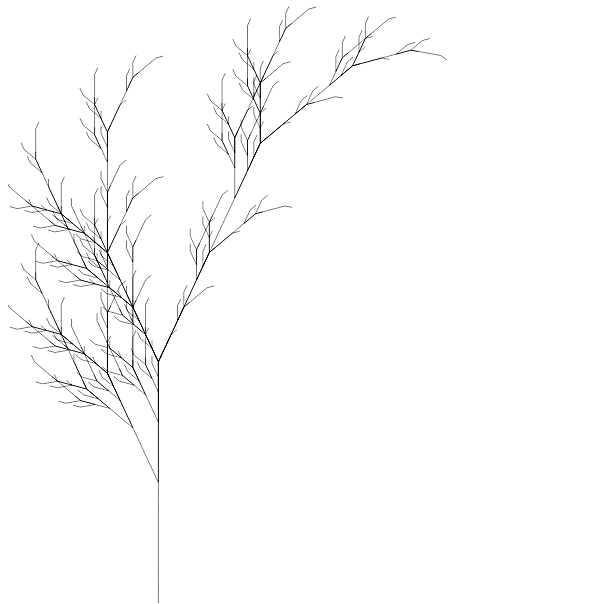
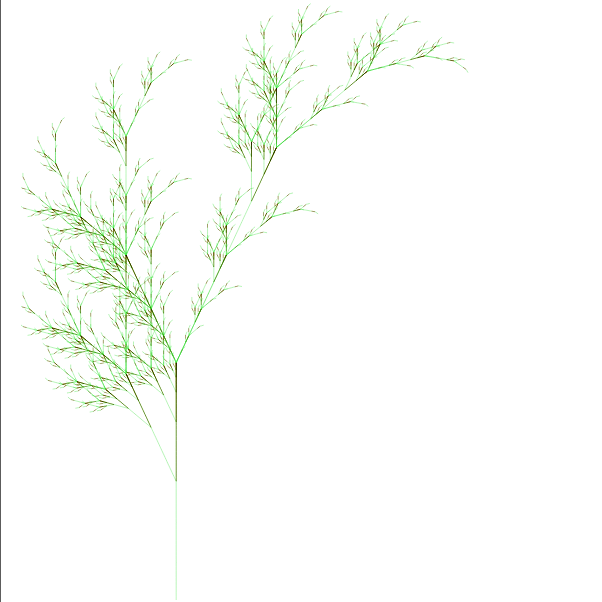
accumulated fixes for issues

Changed region(s): [[0.0, 0.0299, 0.7774, 0.9867], [0.5083, 0.0, 0.5681, 0.0299]]

diff --git a/index.html b/index.html
@@ -17,17 +17,18 @@
         <form id="system-form" action="index.html" method="post">
 
           <span><label class="form-label">Axiom</label><input value="-f" name= "axiom" class="form-input" id="axiom" type="text" required></span>
-          <span><label class="form-label">Rule 1</label><input value="F=F+F-AF-F+F" name= "r1" id="r1" class="form-input" type="text" required></span>
+          <span><label class="form-label">Rule 1</label><input value="F=F+F-F-F+F" name= "r1" id="r1" class="form-input" type="text" required></span>
           <span><label class="form-label">Rule 2</label><input name= "r2" id="r2" class="form-input" type="text" ></span>
           <span><label class="form-label">Rule 3</label><input name= "r3" id="r3" class="form-input" type="text" ></span>
           <span><label class="form-label" >Angle</label><input value=90 name= "angle" id="angle" class="form-input" type="number" required></span>
           <span><label class="form-label">Iterations</label><input value=4 name= "iterations" class="form-input" id="iterations" type="number" required></span>
+          <span><label class="form-label">Delay</label><input value=0 name= "delay" class="form-input" id="delay" type="number" required></span>
           <button type="submit">Generate your L-System</button>
         </form>
-        <p>Use the inputs above to design your L-curve!  Click on the name to change it.  <b>Warning:</b> high iteration counts get intensive quick.  L systems grow fast!  Scale carefully, you will likely find that most won't even approach 10 iterations before bogging down.</p>
+        <p>Use the inputs above to design your L-curve!  Use the delay to delay the drawing of each segment by milliseconds.  Click on the name to change it.  <b>Warning:</b> high iteration counts get intensive quick.  L systems grow fast!  Scale iteration count carefully.</p>
         <table>
           <tr>
-            <td>S,D,F,G</td><td>Move turtle forward</td>
+            <td>A,S,D,F,G</td><td>Move turtle forward</td>
           </tr>
           <tr>
             <td>+</td><td>Turn turtle to the right</td>
@@ -40,6 +41,9 @@
           </tr>
           <tr>
             <td>]</td><td>Return to saved location</td>
+          </tr>
+          <tr>
+            <td>0,1,2,3</td><td>Color line black, brown, green, red, respectively.</td>
           </tr>
         </table>
       </div>
@@ -54,11 +58,27 @@
       <p>If you find this interesting, checkout <a href="http://algorithmicbotany.org/papers/abop/abop-ch1.pdf">The Algorithmic Beauty of Plants (chapter one)</a>, a book on computational botany that has lots of examples of L systems and far more rigorous explanations.</p>
       <div class="row" id="examples">
         <div class="example-box"><input class="example-button" type="image" value='?axiom~f-g-g&r1~f=f-g+f+g-f&r2~g=gg&r3~&angle~120&iterations~4&system-name~Sierpinski%20Triangle%20(Recursive%20Triforce)' onClick="gotoAddress(this)" src="./img/sierpinski.png"></input><p>Sierpinski Triangle</p></div>
-        <div class="example-box"><input class="example-button" type="image" value='?axiom~x&r1~x=f[-x][x]f[-x]+fx&r2~f=ff&r3~&angle~25&iterations~5&system-name~Fractal%20Plant' onClick="gotoAddress(this)" src="./img/fractalPlant.png"></input><p>Fractal Plant</p></div>
+        <div class="example-box"><input class="example-button" type="image" value='?axiom~x&r1~x=2f-[3[x]+2x]+1f[2+fx]-x&r2~f=ff&r3~&angle~25&iterations~6&system-name~Fractal%20Plant' onClick="gotoAddress(this)" src="./img/fractalPlant.png"></input><p>Fractal Plant</p></div>
         <div class="example-box"><input class="example-button" type="image" value='?axiom~fx&r1~x=x+yf+&r2~y=-fx-y&r3~&angle~90&iterations~10&system-name~Dragon%20Curve' onClick="gotoAddress(this)" src="./img/dragon.png"></input><p>Dragon Curve</p></div>
         <div class="example-box"><input class="example-button" type="image" value='?axiom~xyxyxyx+xyxyxyx+xyxyxyx+xyxyxyx&r1~f=&r2~x=fx+fx+fxfy-fy-&r3~y=+fx+fxfy-fy-fy&angle~90&iterations~3&system-name~Fractal%20Maze%20Thing' onClick="gotoAddress(this)" src="./img/fractalMaze.png"></input><p>Fractal Maze</p></div>
         <div class="example-box"><input class="example-button" type="image" value='?axiom~f&r1~f=+g-f-g+&r2~g=-f+g+f-&r3~&angle~60&iterations~7&system-name~Arrowhead%20Curve%20Sierpinski%20Triangle' onClick="gotoAddress(this)" src="./img/sierpinskiArrowhead.png"></input><p>Arrowhead Sierpinski Curve</p></div>
         <div class="example-box"><input class="example-button" type="image" value='?axiom~f&r1~g=gg&r2~f=g[-f]+f&r3~&angle~45&iterations~8&system-name~Fractal%20Tree%20(Broccoli%20Simulator)' onClick="gotoAddress(this)" src="./img/fractalTree.png"></input><p>Fractal Tree</p></div>
+        <div class="example-box"><input class="example-button" type="image" value='?axiom~f-f-f-f&r1~f=3ff-2f--1ff-3f&r2~&r3~&angle~90&iterations~4&system-name~Geometric%20Snowflake' onClick="gotoAddress(this)" src="./img/redSnowflake.png"></input><p>Red Snowflake</p></div>
+        <div class="example-box"><input class="example-button" type="image" value='?axiom~x&r1~x=x+yf++yf-fx--fxfx-yf+&r2~y=-fx+yfyf++yf+fx--fx-y&r3~&angle~60&iterations~4&system-name~Peano-Gosper%20curve' onClick="gotoAddress(this)" src="./img/peanoGosper.png"></input><p>Peano-Gosper Curve</p></div>
+        <div class="example-box"><input class="example-button" type="image" value='?axiom~g&r1~g=+dfff-gfffg-fffd+&r2~d=-gfff+dfffd+fffg-&r3~&angle~90&iterations~5&system-name~Hilbert%20Curve' onClick="gotoAddress(this)" src="./img/hilbert.png"></input><p>Hilbert Curve</p></div>
+        <div class="example-box"><input class="example-button" type="image" value='?axiom~b--g--b--g&r1~b=+d-f-d+&r2~d=-b+f+b-&r3~&angle~45&iterations~6&system-name~Fractal%20Snowflake' onClick="gotoAddress(this)" src="./img/fractalSnowflake.png"></input><p>Fractal Snowflake</p></div>
+        <div class="example-box"><input class="example-button" type="image" value='?axiom~x&r1~x=xfyfx+f+yfxfy-f-xfyfx&r2~y=yfxfy-f-xfyfx+f+yfxfy&r3~&angle~90&iterations~3&system-name~Hilbert%20Curve%202' onClick="gotoAddress(this)" src="./img/hilbert2.png"></input><p>Hilbert Curve 2</p></div>
+        <div class="example-box"><input class="example-button" type="image" value='?axiom~f+f+f+f&r1~f=-f+f-f-f+f+ff-f+f+ff+f-f-ff+ff-ff+f+f-ff-f-f+ff-f-f+f+f-f+&r2~&r3~&angle~90&iterations~2&system-name~32%20Element%20Curve' onClick="gotoAddress(this)" src="./img/32Element.png"></input><p>32 Element Curve</p></div>
+        <div class="example-box"><input class="example-button" type="image" value='?axiom~3f+0f+3f+0f&r1~f=ff+f-f+f+ff&r2~&r3~&angle~90&iterations~4&system-name~Square%20Curve%20Interference' onClick="gotoAddress(this)" src="./img/squareInterference.png"></input><p>Square Curve Interference</p></div>
+        <div class="example-box"><input class="example-button" type="image" value='?axiom~+f--f--f&r1~f=f+f--f+f&r2~&r3~&angle~60&iterations~4&system-name~Koch%20Snowflake' onClick="gotoAddress(this)" src="./img/kochSnowflake.png"></input><p>Koch Snowflake</p></div>
+        <div class="example-box"><input class="example-button" type="image" value='?axiom~++f&r1~f=ff-1[sd]+1[sd]&r2~s=+2fd&r3~d=-2fs&angle~20&iterations~6&system-name~Stringy%20Plant' onClick="gotoAddress(this)" src="./img/stringyPlant.png"></input><p>Stringy Plant</p></div>
+        <div class="example-box"><input class="example-button" type="image" value='?axiom~fx&r1~f=bff-[c1-f+f]+[2+f-f]&r2~x=bff+[1+f]+[3-f]&r3~&angle~25&iterations~5&system-name~Bushy%20Plant' onClick="gotoAddress(this)" src="./img/bushyPlant.png"></input><p>Bushy Plant</p></div>
+        <div class="example-box"><input class="example-button" type="image" value='?axiom~f&r1~f=1ff-[1-f+f+f]+[2+f-f-f]&r2~&r3~&angle~23&iterations~5&system-name~Bushy%20Plant%202' onClick="gotoAddress(this)" src="./img/bushyPlant2.png"></input><p>Bushy Plant 2</p></div>
+        <div class="example-box"><input class="example-button" type="image" value='?axiom~1f&r1~f=f[+f[+f][-f]f][-f[2+f][-f]f]f[2+f][-f]f&r2~&r3~&angle~30&iterations~4&system-name~Fractal%20Plant%202' onClick="gotoAddress(this)" src="./img/fractalPlant2.png"></input><p>Fractal Plant 2</p></div>
+        <div class="example-box"><input class="example-button" type="image" value='?axiom~x&r1~x=1f[+x]2[-x]2fx&r2~f=ff&r3~&angle~25&iterations~9&system-name~Pretty%20Tree' onClick="gotoAddress(this)" src="./img/prettyTree.png"></input><p>Pretty Tree</p></div>
+        <div class="example-box"><input class="example-button" type="image" value='?axiom~f-f-f-f&r1~f=ff-f-f-f-f-f+f&r2~&r3~&angle~90&iterations~4&system-name~Another%20Fractal' onClick="gotoAddress(this)" src="./img/anotherFractal.png"></input><p>anotherFractal</p></div>
+        <div class="example-box"><input class="example-button" type="image" value='?axiom~f-f-f-f&r1~f=ff-f--f-f&r2~&r3~&angle~90&iterations~4&system-name~Square%20Division' onClick="gotoAddress(this)" src="./img/squareDivision.png"></input><p>Divided Square</p></div>
+
 
       </div>
     </div>
@@ -69,6 +89,12 @@
   integrity="sha256-k2WSCIexGzOj3Euiig+TlR8gA0EmPjuc79OEeY5L45g="
   crossorigin="anonymous"></script>
   <script src="app.js" charset="utf-8"></script>
+  <footer>
+
+
+      <span><a rel="license" href="http://creativecommons.org/licenses/by/4.0/"><img alt="Creative Commons License" style="border-width:0" src="https://i.creativecommons.org/l/by/4.0/80x15.png" /></a> Zach Williams</span>
+      <a href="https://github.com/saumanahaii/l-curve-visualizer">Get the source</a>
+  </footer>
   </body>
 
 

diff --git a/app.js b/app.js
@@ -1,4 +1,10 @@
 /**
+Code written by Zachary Williams.
+Its been acting pretty sad lately, so feel free to give it a good home.
+In other words, this is
+*/
+
+/**
 Basic grammar:
   "F": move forward
   "+" rotate right
@@ -37,7 +43,8 @@ let system = {
   r2: null,
   angle: null,
   rules: [],
-  dimensions: {x: 600, y:600}
+  dimensions: {x: 600, y:600},
+  delay: 0
 }
 
 d3.select("#svg-container").append("svg:svg").attr("width", system.dimensions.x).attr("height", system.dimensions.y).attr("id", "svg").attr("transform","rotate(-90)");
@@ -51,13 +58,15 @@ class LSystem{
     this.res = system.axiom;
     this.lines = [];
     this.dir = 0;
-    this.activeColor = "black";
+    this.activeColor = "rgba(0,0,0,0.3)";
     this.length = 20;
     this.head = {x:0,y:0}
     this.locationStack = [];
     this.rules = system.rules;
+    this.delay = system.delay;
     this.xDim = {min:this.head.x,max:this.head.x}
     this.yDim = {min:this.head.y,max:this.head.y}
+
   }
 
   runIterationsAndReturnLines(count = this.iterations){
@@ -93,26 +102,39 @@ class LSystem{
     str.split("").forEach((el,i)=>{
       if(el==="+") this.dir += this.angle;
       else if(el==="-") this.dir -= this.angle;
-      else if(el==="[") this.locationStack.push(Object.assign({}, this.head, {dir: this.dir}));
+      else if(el==="[") this.locationStack.push(Object.assign({}, this.head, {dir: this.dir, color: this.activeColor}));
       else if(el==="]"){
         let prev = this.locationStack.pop();
         this.head = prev;
         this.dir = prev.dir;
+        this.activeColor = prev.color;
       }
-      else if(["s","d","f","g"].indexOf(el) !== -1) {
+      else if(el==="0"){
+        this.activeColor = "rgba(0,0,0,0.3)";
+      }
+      else if(el==="1"){
+        this.activeColor = "rgba(128,128,0,0.4)";
+      }
+      else if(el==="2"){
+        this.activeColor = "rgba(124,248,124,0.4)";
+      }
+      else if(el==="3"){
+        this.activeColor = "rgba(255,69,0,0.4)";
+      }
+      else if(["s","d","f","g", "a"].indexOf(el) !== -1) {
         //create line from current position to next, then move the current pos to next
 
         let nextX = this.head.x + this.length*Math.cos(this.dir);
         let nextY = this.head.y + this.length*Math.sin(this.dir);
-
         this.lines.push(
           {
             x1:this.head.x,
             y1:this.head.y,
             x2: nextX,
-            y2: nextY
+            y2: nextY,
+            color: this.activeColor
           }
-        )
+        );
 
         if(this.head.x < this.xDim.min) this.xDim.min = this.head.x;
         if(this.head.x > this.xDim.max) this.xDim.max = this.head.x;
@@ -140,14 +162,19 @@ class LSystem{
 
 
 
-    d3.select("#svg").selectAll("line").data(data).enter()
+    let x = d3.select("#svg").selectAll("line").data(data).enter()
     .insert("line")
-    .attr("stroke-width", 1)
-    .attr("stroke", "rgba(0,0,0,0.3)")
+    .attr("stroke-width", 0)
+    .attr("stroke", (d,i)=>{
+
+      return d.color})
     .attr("x1", (d,i)=>(d.x1*scaleFactor+1)-(this.xDim.min*scaleFactor))
     .attr("x2", (d,i)=>(d.x2*scaleFactor+1)-(this.xDim.min*scaleFactor))
     .attr("y1", (d,i)=>(d.y1*scaleFactor+1)-(this.yDim.min*scaleFactor))
-    .attr("y2", (d,i)=>(d.y2*scaleFactor+1)-(this.yDim.min*scaleFactor));
+    .attr("y2", (d,i)=>(d.y2*scaleFactor+1)-(this.yDim.min*scaleFactor))
+
+    x.transition().duration(250).delay((d,i)=>i*this.delay)
+    .attr("stroke-width", 1)
   }
 }
 
@@ -177,6 +204,7 @@ $("#system-form").on("submit", function(e){
     acc+= `${field.name}~${field.value}&`;
   });
   system.name = $("#system-name").text();
+
   acc+= `system-name~${system.name}`;
   window.history.pushState({}, "", "?"+acc);
 

diff --git a/css.css b/css.css
@@ -8,6 +8,17 @@ body{
   background-image: url("./img/black-thread-light.png");
 }
 
+footer{
+  background: white;
+  border-top: 2px solid darkgrey;
+  display: flex;
+  flex-direction: row;
+  justify-content: space-between;
+  padding-left: 10px;
+  padding-right: 10px;
+  align-items: center;
+}
+
 a{
   color: #5E4C5A;
   text-shadow: 4px 4px 5px rgba(0,0,0,0.25);
